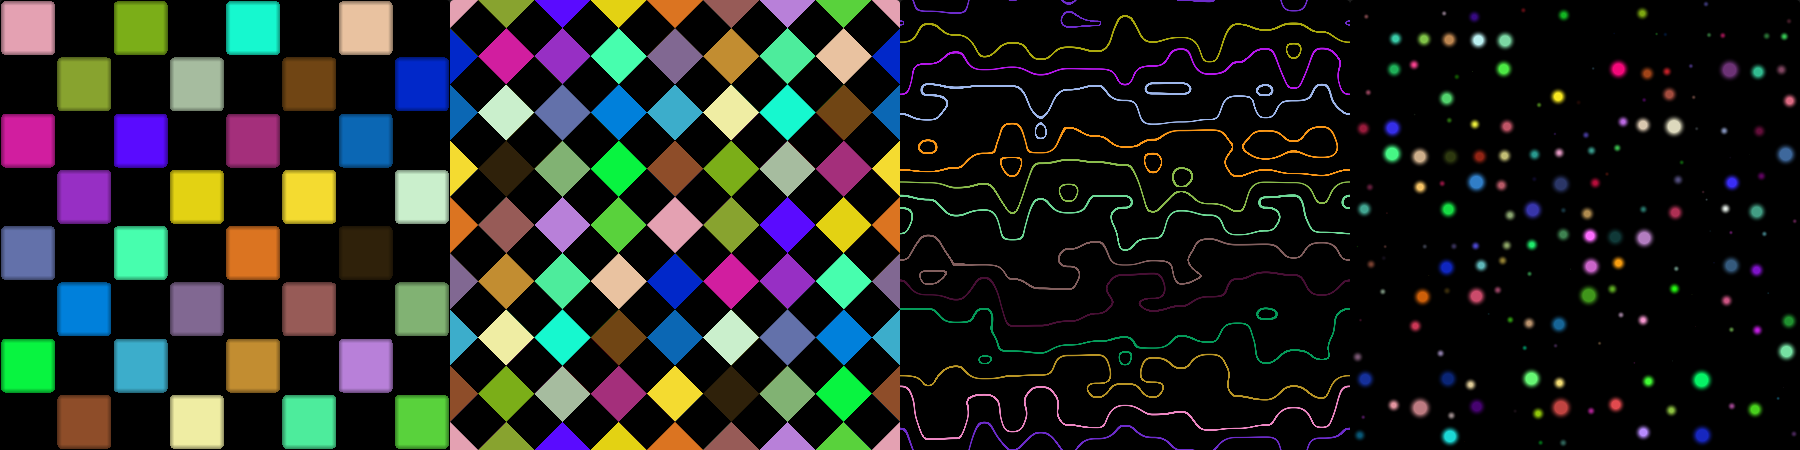
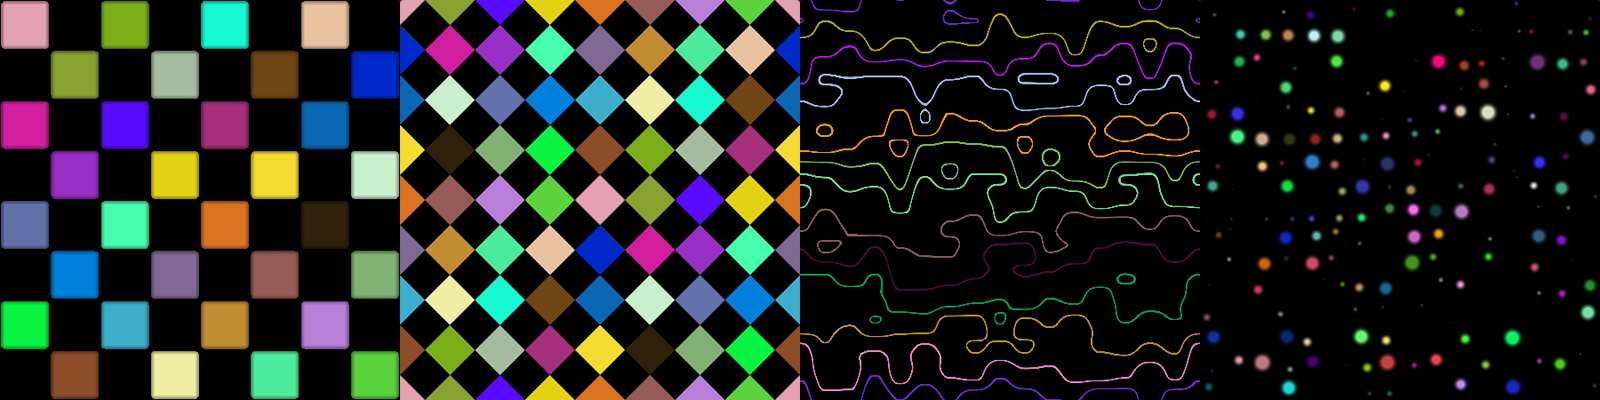
-updated preview section

diff --git a/README.md b/README.md
@@ -20,16 +20,25 @@ Collection of tileable procedural textures:
 #### Random, Value Noise, Value Noise Derivatives and Grid Noise
 ![value-noise](screenshots/preview_value_noise.png)
 
+#### Gradient Noise (Derivatives and configurable Disorder)
+![gradient-noise](screenshots/preview_gradient_noise.png)
+
 ### Worley Noise
 
-#### Cellular Noise F1, Cellular Noise F2, Metaballs and Cellular Noise Derivatives
-![value-noise](screenshots/preview_cellular.png)
+#### Cellular Noise (F1 and F2), Metaballs and Cellular Noise Derivatives
+![cellular-noise](screenshots/preview_cellular.png)
+
+#### Cellular Noise metrics (Manhattan, Chebyshev and Triangular)
+![cellular-noise-metrics](screenshots/preview_cellular_metrics.png)
 
 ### FBM
 
 ### Domain warp
 
 ### Patterns
+
+#### Checkerboard (plus 45 angle), Random Lines and Dots  
+![cellular-noise](screenshots/preview_patterns0.png)
 
 ## Contributing
 
